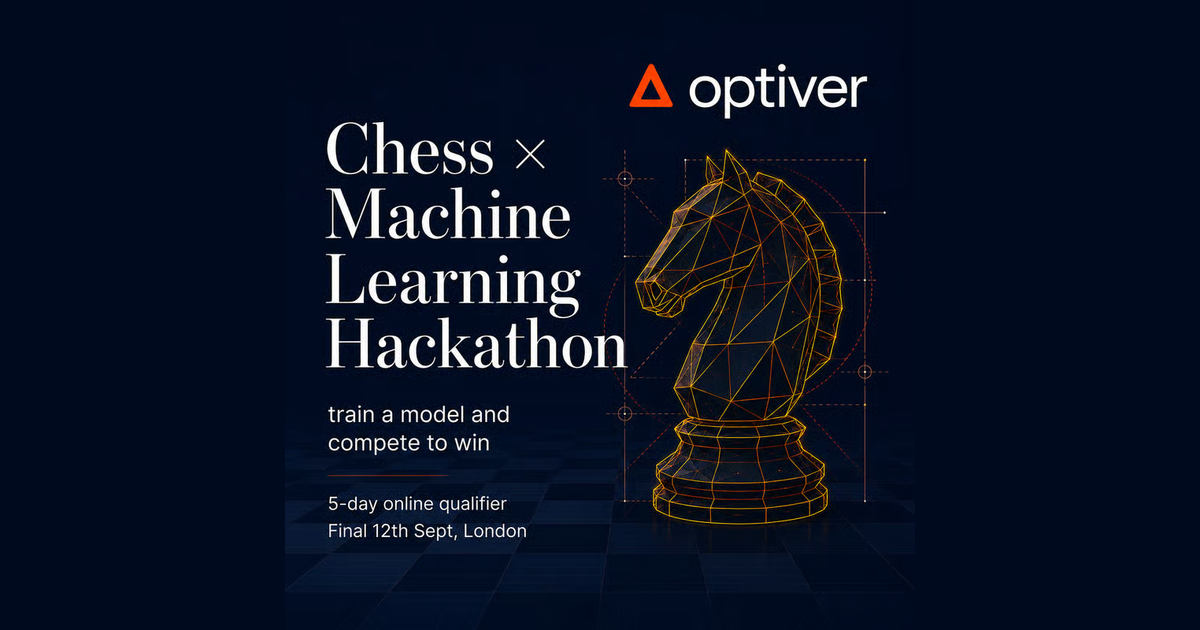
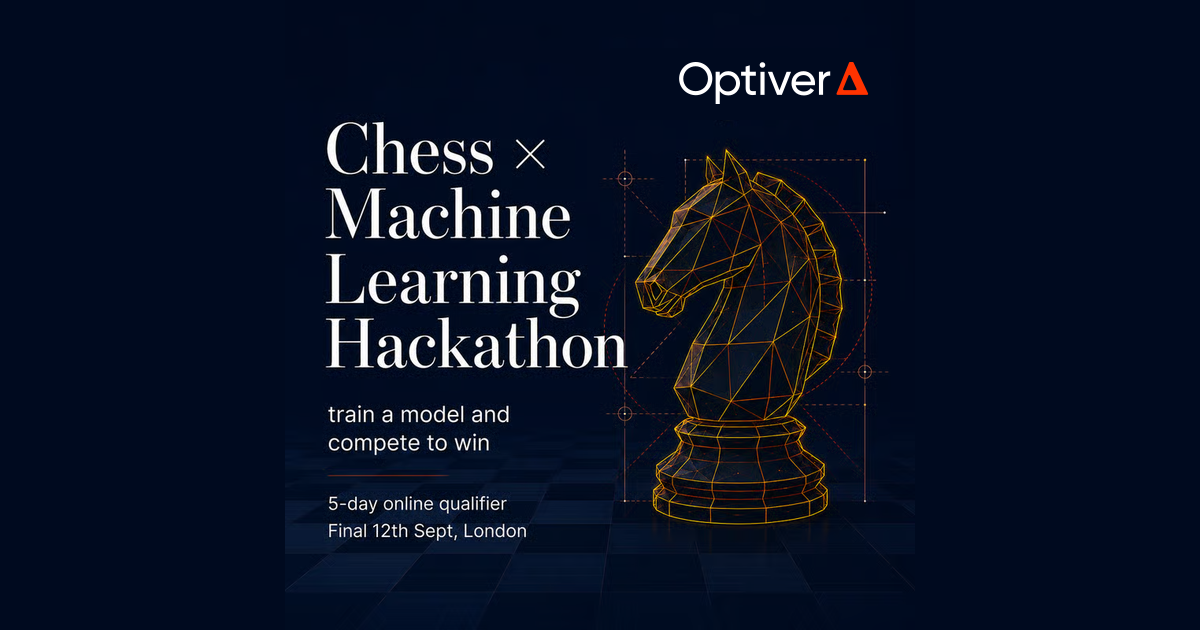
Use Optiver’s official wordmark-then-triangle lockup on the share card so WhatsApp previews match brand.

Changed region(s): [[0.5242, 0.0905, 0.74, 0.181]]

diff --git a/src/app/layout.tsx b/src/app/layout.tsx
@@ -27,13 +27,13 @@ export const metadata: Metadata = {
     siteName: "AI Chessathon",
     title: "AI Chessathon: Build a chess agent. Put it on the board.",
     description: `Online qualification ${QUALIFICATION_DATES}. London final ${FINAL_DATE}. Sponsored by Optiver.`,
-    images: [{ url: "/opengraph-image.png", width: 1200, height: 630, alt: "Chess × Machine Learning Hackathon, sponsored by Optiver" }],
+    images: [{ url: "/opengraph-image.png?v=optiver-lockup", width: 1200, height: 630, alt: "Chess × Machine Learning Hackathon, sponsored by Optiver" }],
   },
   twitter: {
     card: "summary_large_image",
     title: "AI Chessathon: Build a chess agent. Put it on the board.",
     description: `Online qualification ${QUALIFICATION_DATES}. London final ${FINAL_DATE}. Sponsored by Optiver.`,
-    images: ["/opengraph-image.png"],
+    images: ["/opengraph-image.png?v=optiver-lockup"],
   },
   category: "technology",
 };
